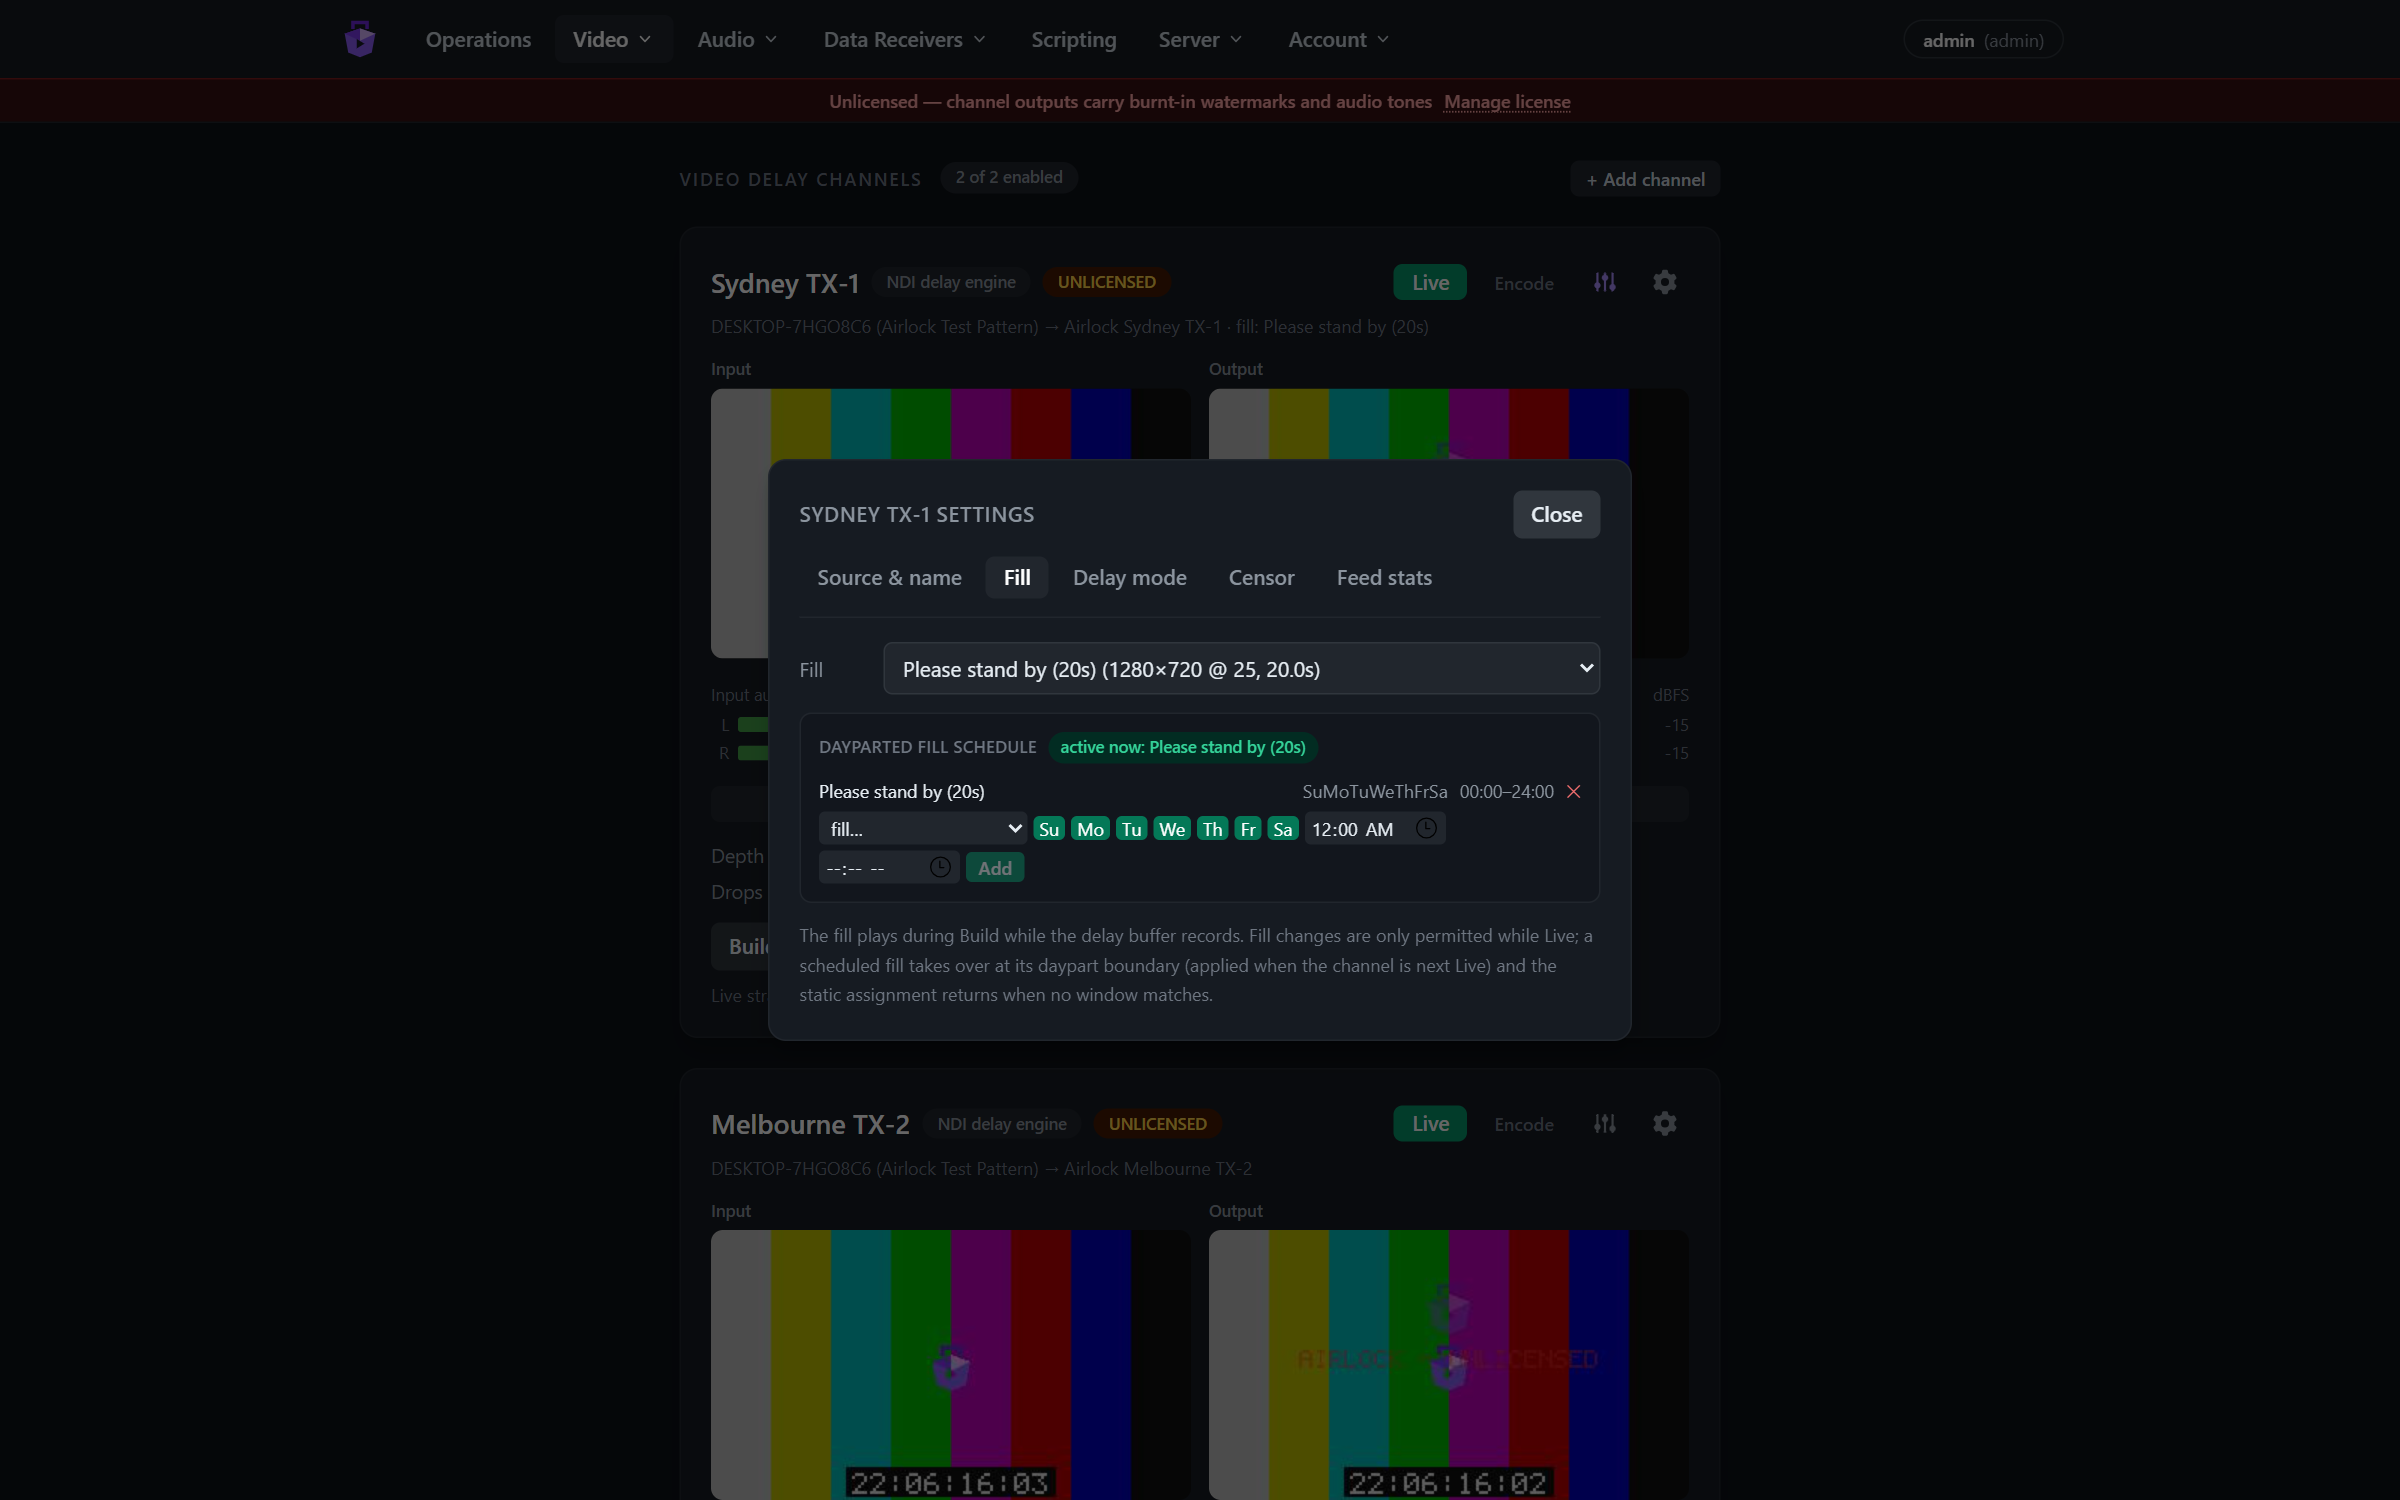
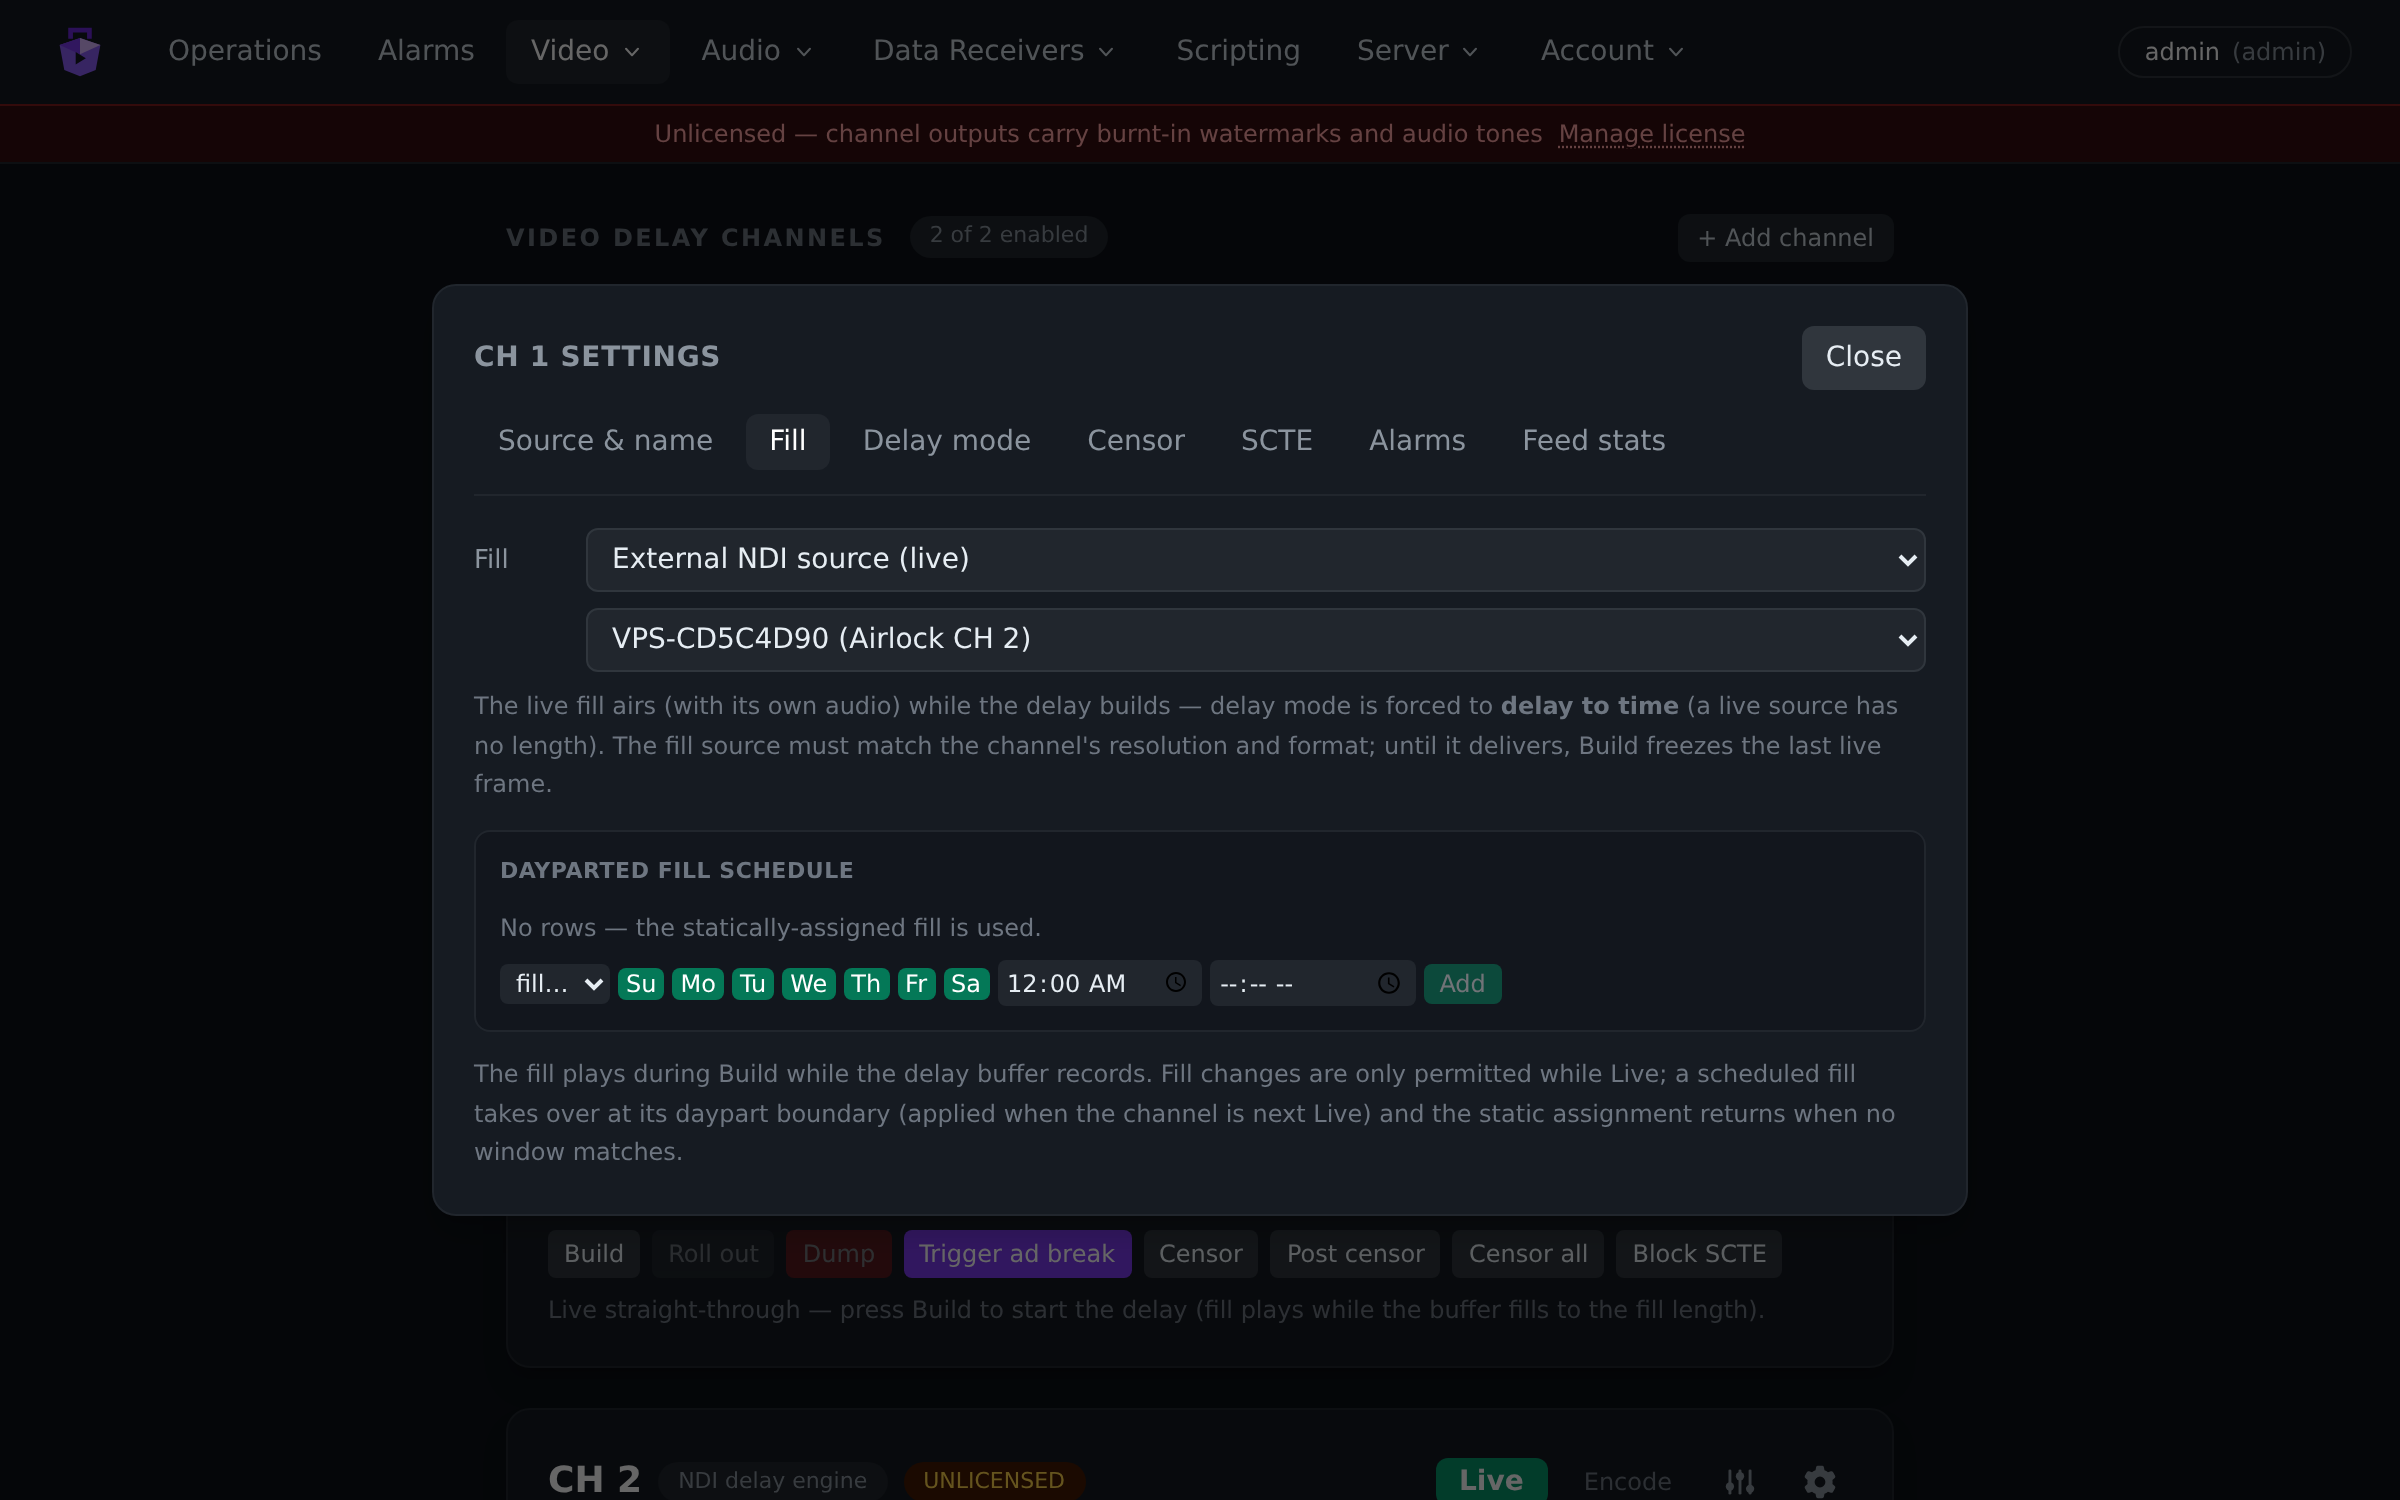
Sync docs from airlock c5b39da (manual sync, Actions credit exhausted)

diff --git a/user-manual/airlock-manual.html b/user-manual/airlock-manual.html
@@ -443,8 +443,10 @@ dashboard is view-only).</p>
 <h3 id="build">Build</h3>
 <p><strong>Build</strong> is enabled only while <strong>Live</strong>. Press it and:</p>
 <ul>
-<li>the output switches to the channel&#39;s <strong>fill</strong> (or freezes the last live
-frame in freeze mode) while the buffer records the live feed;</li>
+<li>the output switches to the channel&#39;s <strong>fill</strong> — a conformed asset, a live
+external NDI feed (<a href="#5-channel-configuration">§5</a>), or a freeze of the last
+live frame — playing <strong>the fill&#39;s own audio</strong> while the buffer records the
+live feed;</li>
 <li>the state badge turns amber (<strong>Building</strong>) and the depth counter climbs;</li>
 <li>when the delay window is reached, the channel drops into <strong>Delayed</strong> and the
 programme airs behind live.</li>
@@ -514,9 +516,10 @@ The persistent per-channel rules live on the <strong>SCTE</strong> policy tab
 <ul>
 <li><strong>Slate</strong> — cover the output with the technical-difficulties still
 (<a href="#5-channel-configuration">§5</a>) — applied <em>after</em> the delay and censor
-stages, so <strong>both the NDI output and the encoder carry it</strong>. Click to engage
-(<strong>Slate ●</strong>, pulsing red), click again to release; it holds until released
-(no auto-timeout) and works in any state.</li>
+stages, so <strong>both the NDI output and the encoder carry it</strong>. Slate is
+engaged from GPIO, control panels or the API; while it is covering the
+output a <strong>Slate ●</strong> button (pulsing red) appears on the card — click it to
+release. It holds until released (no auto-timeout) and works in any state.</li>
 <li><strong>Censor all</strong> — engage the reaction-compensated marked-span censor and the
 immediate output censor together in one press (<strong>Censor all ●</strong> while
 engaged).</li>
@@ -550,10 +553,21 @@ for commissioning and the screenshots in this manual.</li>
 </ul>
 <h3 id="fill--static-assignment-and-dayparted-schedule">Fill — static assignment and dayparted schedule</h3>
 <p>The static <strong>Fill</strong> picker offers the <em>ready</em> fill assets
-(<a href="#7-fill-assets">§7</a>) or <strong>&quot;Freeze frame (no fill — delay to time)&quot;</strong> to
-build against a freeze of the last live frame instead of playing fill. A fill
-must fit the channel&#39;s maximum delay depth — the server refuses an
-over-length assignment rather than risk the buffer.</p>
+(<a href="#7-fill-assets">§7</a>), <strong>&quot;Freeze frame (no fill — delay to time)&quot;</strong> to
+build against a freeze of the last live frame instead of playing fill, or
+<strong>&quot;External NDI source (live)&quot;</strong>. A fill asset must fit the channel&#39;s maximum
+delay depth — the server refuses an over-length assignment rather than risk
+the buffer.</p>
+<p><strong>External NDI source (live)</strong> airs a <em>live</em> NDI feed as the fill — a station
+loop or promo channel plays out (with <strong>its own audio</strong>) while the delay
+builds. Because a live source has no length, choosing it forces the delay
+mode to <strong>Delay to time</strong>. The fill source must match the channel&#39;s
+resolution and pixel format (<strong>ALARM_FILL_FORMAT</strong> and a held frame
+otherwise, and match its frame rate for clean audio); until it delivers,
+Build freezes the last live frame, and if it stops delivering,
+<strong>ALARM_FILL_SOURCE_LOST</strong> raises (self-clears on the next fill frame). The
+fill source&#39;s own health is watched from the moment it is assigned — before
+anyone presses Build.</p>
 <p>Below it, the <strong>Dayparted fill schedule</strong> swaps the effective fill by time of
 day and day of week — e.g. a breakfast slate on weekday mornings, the station
 default otherwise:</p>
@@ -625,7 +639,8 @@ video</strong> to <strong>picture untouched</strong>, <strong>blur (pixelate)</s
 <li><strong>Slate (technical difficulties)</strong> — a still held at the channel <strong>output</strong>
 (after the delay and censor stages, so it feeds both the NDI output and the
 encoder). Choose the still (<strong>black when none</strong>) and optionally <strong>Mute
-programme audio while slated</strong>. It is engaged from the card
+programme audio while slated</strong>. It is engaged from GPIO, control panels or
+the API; while active the card shows a release button
 (<a href="#4-operating-the-delay">§4</a>).</li>
 </ul>
 <p><img src="img/71-video-masking.png" alt="Censor tab — video masking and slate"></p>
@@ -1742,9 +1757,15 @@ sends so the plant is not double-fed.</p>
 <em>&quot;Saving restarts a running encoder.&quot;</em>):</p>
 <p><img src="img/59-audio-encoder-editor.png" alt="Audio encoder editor"></p>
 <ul>
-<li><strong>Source</strong> — <strong>Input</strong> is an <strong>Audio channel</strong> (pick <code>ch{n} — {name}</code>) or an
-<strong>NDI source</strong> (pick from the finder); <strong>Channels</strong> is <code>1 (mono)</code> or
-<code>2 (stereo)</code> (<em>HE-AAC v2 renditions need a stereo source</em>).</li>
+<li><strong>Source</strong> — <strong>Input</strong> is an <strong>Audio channel</strong> (pick <code>ch{n} — {name}</code>), an
+<strong>NDI source</strong> (pick from the finder), or a <strong>Sound device</strong> — capture
+straight off a sound card with no delay channel in between: pick the
+<strong>backend</strong> (<strong>asio</strong> on Windows, <strong>alsa</strong> on Linux, <strong>sim</strong> for headless
+tests), the <strong>device</strong> (ASIO drivers and capture-capable ALSA PCMs are
+probed; free-text otherwise), the <strong>input</strong> channel pair (ASIO — named pairs
+when the driver reports them) and the capture <strong>sample rate</strong>. <strong>Channels</strong>
+is <code>1 (mono)</code> or <code>2 (stereo)</code> (<em>HE-AAC v2 renditions need a stereo source</em>)
+and doubles as the capture width for a sound-device source.</li>
 <li><strong>Renditions</strong> — the AAC encode ladder. Each row picks a profile —
 <strong>AAC-LC</strong>, <strong>HE-AAC v1</strong>, <strong>HE-AAC v2</strong>, or <strong>xHE-AAC</strong> — a sample rate and a
 bitrate. Multiple renditions become the HLS <strong>ABR ladder</strong>. <strong>xHE-AAC (USAC)</strong>

diff --git a/design/AIR-222-ndi-fill.md b/design/AIR-222-ndi-fill.md
@@ -1,0 +1,71 @@
+# AIR-222 — Video fill from a live external NDI source
+
+A video delay channel's Build/INSERT fill can be a **live external NDI input**
+(a station loop, a weather feed) alongside the existing conformed file assets
+(AIR-13) and freeze-frame (AIR-43): while the delay buffer records, the output
+airs the live fill source. The fill's own audio airs with it (the AIR-220
+rule).
+
+## Decisions
+
+**D1 — depth model: freeze's, not the asset's.** The AIR-3 invariant (depth
+after Building equals the fill length, FR-16) assumes a finite asset. A live
+source has no duration, so assigning an NDI fill **forces `delayMode =
+"toTime"`** — exactly the AIR-43 freeze rule — and the build window is
+`targetDelaySeconds` capped at the depth ceiling. `ChannelCore` needed no
+change: `TrySetFill` already validates on `TargetFrames` (the window), and
+Building completes on `FillPlayer.Finished`, which is window-driven.
+
+**D2 — delivery: a second receiver into a small fill-slot ring.** The engine
+keeps its preloaded-pool-slot fill model (playback = an index walk, NFR-04).
+A dedicated receiver thread (`NdiDelayEngine.FillReceiverLoop`, the
+`EncodeNdiFeeder` receive shape) opens its own `recv_create_v3` on the fill
+name and writes decoded frames round-robin into **8 dedicated fill pool
+slots**, each frame's interval audio planar in the same slot (the `StoreFrame`
+layout, so the AIR-220 fill-audio emit path works unchanged). Publishing is
+one `Volatile.Write` of the newest complete slot id; `FillPlayer` in live mode
+reads it per output frame (allocation- and lock-free). The writer skips the
+currently-published slot, so the send loop never reads a slot mid-write; a
+writer would have to lap the whole ring inside one output period (~350 fps
+fill source) to collide.
+
+**D3 — repeats air silent.** When the fill source is slower than the channel
+(or stalled), the same slot re-airs. Replaying its 20 ms interval audio would
+stutter, so a repeated fill frame reads as `FillPlayer.Frozen` and the emit
+path airs **silence** for it, with the AIR-2 discontinuity edge fades at each
+boundary. (This also implements the long-documented-but-unimplemented "silent
+audio while frozen" for loop-off file fills.) Practical consequence: a fill
+source at the channel's frame rate airs clean audio; a mismatched rate airs
+choppy audio — match the rates.
+
+**D4 — v1 raster constraint.** The fill source must match the channel's
+locked resolution and FourCC (the receiver requests UYVY/BGRA like the main
+receiver; there is no realtime scaler on this path). A mismatch raises
+`ALARM_FILL_FORMAT` and the fill holds its last good frame (or the
+freeze-frame preload). Frame-rate may differ (D3 covers it). Audio must be
+48 kHz (`FillAudioRate`) or the fill airs silent.
+
+**D5 — fallbacks and health.** At bind, the fill slots are preloaded with the
+channel's first live frame (the AIR-43 freeze fallback), so Building before
+the fill source connects airs a freeze-frame, not garbage. No fill frames for
+2 s raises `ALARM_FILL_SOURCE_LOST` (self-clears on the next frame) — raised
+whenever the receiver runs, so operators see it before pressing Build.
+
+**D6 — precedence and lifecycle.** `FillNdiSourceName` lives on `ChannelDoc`
+(replicates with the channel; nothing for MediaSync — there is no file). It
+is mutually exclusive with `FillId`/`FreezeFill`; assigning any one clears the
+others (asset assignment out of live-fill mode re-binds the engine so the
+receiver stops). A matching **daypart schedule row (AIR-125) outranks the live
+fill**, like the static asset assignment it stands in for. Sim channels stand
+in with freeze-frame (no NDI in sim). The receiver lives and dies with the
+engine bind (`Stop()` joins it before the main loop).
+
+## Surfaces
+
+- `POST /api/channels/{n}/fill-ndi { sourceName }` (admin, FR-23 live-only) —
+  clears asset/freeze, forces toTime, audits `SET_FILL_NDI`, publishes the
+  `channels` sync collection.
+- `ChannelStatus.fillNdiSourceName`; SPA Fill tab gains **External NDI source
+  (live)** with the source picker.
+- Alarms: `ALARM_FILL_SOURCE_LOST`, `ALARM_FILL_FORMAT` (videoDelay category,
+  Warning).

diff --git a/user-manual/README.md b/user-manual/README.md
@@ -265,8 +265,10 @@ dashboard is view-only).
 
 **Build** is enabled only while **Live**. Press it and:
 
-- the output switches to the channel's **fill** (or freezes the last live
-  frame in freeze mode) while the buffer records the live feed;
+- the output switches to the channel's **fill** — a conformed asset, a live
+  external NDI feed ([§5](#5-channel-configuration)), or a freeze of the last
+  live frame — playing **the fill's own audio** while the buffer records the
+  live feed;
 - the state badge turns amber (**Building**) and the depth counter climbs;
 - when the delay window is reached, the channel drops into **Delayed** and the
   programme airs behind live.
@@ -390,10 +392,22 @@ and delay-mode changes are only permitted while the channel is **Live**.
 ### Fill — static assignment and dayparted schedule
 
 The static **Fill** picker offers the *ready* fill assets
-([§7](#7-fill-assets)) or **"Freeze frame (no fill — delay to time)"** to
-build against a freeze of the last live frame instead of playing fill. A fill
-must fit the channel's maximum delay depth — the server refuses an
-over-length assignment rather than risk the buffer.
+([§7](#7-fill-assets)), **"Freeze frame (no fill — delay to time)"** to
+build against a freeze of the last live frame instead of playing fill, or
+**"External NDI source (live)"**. A fill asset must fit the channel's maximum
+delay depth — the server refuses an over-length assignment rather than risk
+the buffer.
+
+**External NDI source (live)** airs a *live* NDI feed as the fill — a station
+loop or promo channel plays out (with **its own audio**) while the delay
+builds. Because a live source has no length, choosing it forces the delay
+mode to **Delay to time**. The fill source must match the channel's
+resolution and pixel format (**ALARM_FILL_FORMAT** and a held frame
+otherwise, and match its frame rate for clean audio); until it delivers,
+Build freezes the last live frame, and if it stops delivering,
+**ALARM_FILL_SOURCE_LOST** raises (self-clears on the next fill frame). The
+fill source's own health is watched from the moment it is assigned — before
+anyone presses Build.
 
 Below it, the **Dayparted fill schedule** swaps the effective fill by time of
 day and day of week — e.g. a breakfast slate on weekday mornings, the station